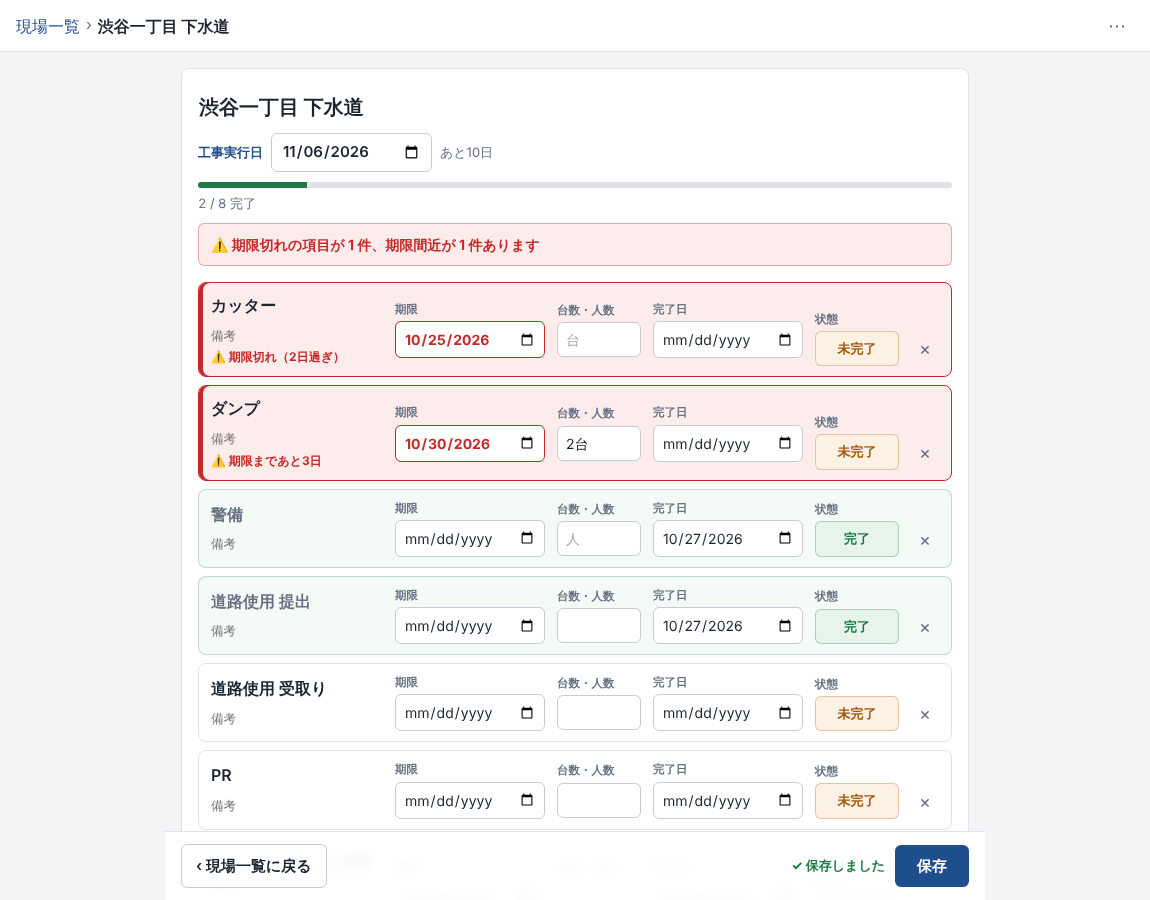
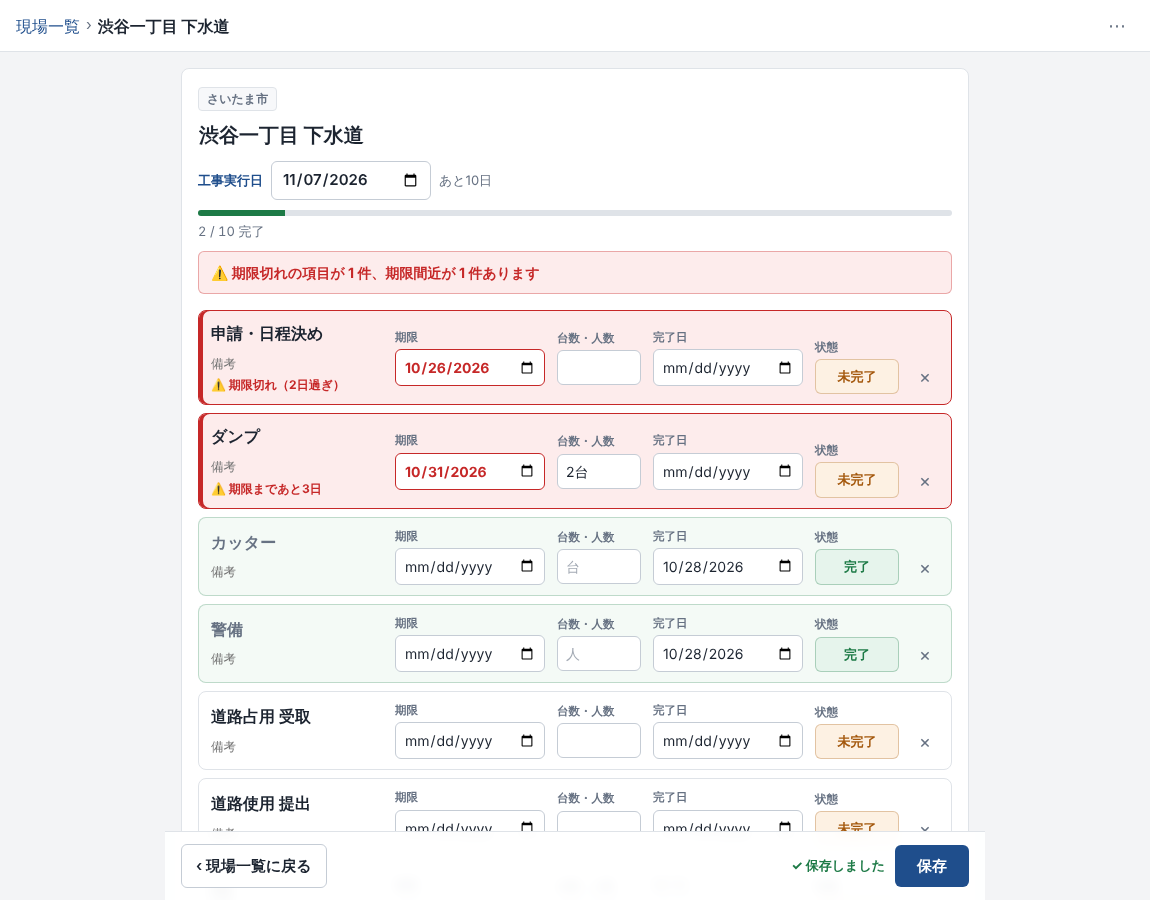
現場を作る時に地域ごとの項目セットを選べるように
- さいたま市・川口市・東京都・なし（自分で追加）の項目セットを追加
- 選んだ地域をフォルダと現場画面に表示し、地域名でも検索できるように
- 「道路占用 受取」がセットに含まれるため、既存現場から道路占用を消す処理を外す

Claude-Session: https://claude.ai/code/session_01ENEA1xgHqJX6YxXFpAdksQ

Changed region(s): [[0.1522, 0.0933, 0.8217, 0.9333]]

diff --git a/app.js b/app.js
@@ -1,17 +1,46 @@
 // 現場管理（仮版）: データはこの端末のブラウザ (localStorage) に保存
 const STORAGE_KEY = 'genba-kanri-v1';
 
-// 紙の枠と同じ初期項目
-const DEFAULT_TASKS = [
-  'カッター',
-  'ダンプ',
-  '警備',
-  '道路使用 提出',
-  '道路使用 受取り',
-  'PR',
-  '事前打合せ（施工日前日）',
-  '組合にメーター取りに行く',
-];
+// 地域ごとの項目セット（現場を作る時に選ぶ）
+const TEMPLATES = {
+  'さいたま市': [
+    '申請・日程決め',
+    'ダンプ',
+    'カッター',
+    '警備',
+    '道路占用 受取',
+    '道路使用 提出',
+    'PR',
+    '道路使用 受取',
+    '事前打合せ',
+    'メーター受取',
+  ],
+  '川口市': [
+    '事前打合せ',
+    '預かり',
+    '申請',
+    '道路使用 受取',
+    '道路使用 提出',
+    '道路使用 受取',
+    '日程決め',
+    'PR',
+    'ダンプ',
+    '警備',
+    'カッター',
+  ],
+  '東京都': [
+    '申請',
+    '道路占用 受取',
+    '日程決め',
+    'ダンプ',
+    '警備',
+    'カッター',
+    '道路使用 提出',
+    '道路使用 受取',
+    'PR',
+  ],
+  'なし（自分で追加）': [],
+};
 
 const $ = (id) => document.getElementById(id);
 const uid = () => Date.now().toString(36) + Math.random().toString(36).slice(2, 7);
@@ -22,7 +51,6 @@ const RENAMED_TASKS = {
   '申請・施工日日程決め（カッター）': ['カッター'],
   '申請・施工日日程決め（ダンプ）': ['ダンプ'],
   '申請・施工日日程決め（警備）': ['警備'],
-  '道路占用 受取り': [],
 };
 
 let state = load();
@@ -80,14 +108,15 @@ function ask(message, okLabel = 'OK', cancel = true) {
 }
 const notify = (message) => ask(message, 'OK', false);
 
-function newSite(name) {
+function newSite(name, area) {
   return {
     id: uid(),
     name,
+    area: area in TEMPLATES && TEMPLATES[area].length ? area : '',
     notes: '',
     createdAt: new Date().toISOString(),
     updatedAt: new Date().toISOString(),
-    tasks: DEFAULT_TASKS.map((title) => ({ id: uid(), title, date: '', qty: '', doneDate: '', note: '', done: false })),
+    tasks: (TEMPLATES[area] || []).map((title) => ({ id: uid(), title, date: '', qty: '', doneDate: '', note: '', done: false })),
   };
 }
 
@@ -164,7 +193,7 @@ function renderList() {
   list.innerHTML = '';
 
   const sites = state.sites
-    .filter((s) => s.name.toLowerCase().includes(q))
+    .filter((s) => (s.name + ' ' + (s.area || '')).toLowerCase().includes(q))
     .filter((s) => filter === 'all'
       || (filter === 'warn' ? siteAlerts(s).length > 0 : filter === 'done' ? isAllDone(s) : !isAllDone(s)))
     // 警告のある現場を上に、その中は更新が新しい順
@@ -184,6 +213,7 @@ function renderList() {
         ? `⚠ ${overdue ? '期限切れ' : '期限間近'} ${alerts.length}件`
         : done ? '✓ 完了' : '未完了'}</div>
       <div class="folder-body">
+        <div class="area"></div>
         <div class="name"></div>
         <div class="work"></div>
         <div class="sub"></div>
@@ -193,6 +223,8 @@ function renderList() {
         </div>
       </div>`;
     li.querySelector('.name').textContent = site.name;
+    li.querySelector('.area').textContent = site.area || '';
+    li.querySelector('.area').hidden = !site.area;
     li.querySelector('.work').textContent = site.workDate ? '工事 ' + workDateLabel(site) : '工事実行日 未定';
     li.querySelector('.work').classList.toggle('is-unset', !site.workDate);
     li.querySelector('.sub').textContent = !total ? '項目なし'
@@ -244,6 +276,8 @@ function showDetail() {
   $('pageTitle').hidden = false;
   $('pageTitle').textContent = site.name;
   $('siteNameInput').value = site.name;
+  $('siteArea').textContent = site.area || '';
+  $('siteArea').hidden = !site.area;
   $('siteNotes').value = site.notes || '';
   $('workDateInput').value = site.workDate || '';
   renderWorkDate(site);
@@ -357,11 +391,18 @@ document.querySelectorAll('.chip').forEach((chip) => {
   });
 });
 
+$('templatePicker').innerHTML = Object.keys(TEMPLATES).map((area, i) => `
+  <label class="template-option">
+    <input type="radio" name="template" value="${area}"${i === 0 ? ' checked' : ''}>
+    <span>${area}</span>
+  </label>`).join('');
+
 $('addSiteForm').addEventListener('submit', (e) => {
   e.preventDefault();
   const name = $('newSiteName').value.trim();
   if (!name) return;
-  const site = newSite(name);
+  const area = document.querySelector('input[name="template"]:checked')?.value;
+  const site = newSite(name, area);
   state.sites.push(site);
   save();
   $('newSiteName').value = '';

diff --git a/style.css b/style.css
@@ -93,7 +93,24 @@ main { max-width: 820px; margin: 0 auto; padding: 16px; }
 .chip { border: 1px solid var(--line-strong); background: var(--card); border-radius: 6px; padding: 5px 12px; font-size: 13px; }
 .chip.active { background: var(--accent); border-color: var(--accent); color: var(--accent-text); }
 
-.add-site { display: flex; gap: 8px; margin-bottom: 12px; }
+.add-site {
+  display: flex; flex-direction: column; gap: 10px; margin-bottom: 14px;
+  padding: 12px; background: var(--card); border: 1px solid var(--line); border-radius: 8px;
+}
+.add-site-row { display: flex; gap: 8px; }
+.template-picker { margin: 0; padding: 0; border: none; min-width: 0; }
+.template-picker legend { padding: 0; margin-bottom: 6px; font-size: 12.5px; font-weight: 600; color: var(--muted); }
+.template-options { display: flex; flex-wrap: wrap; gap: 6px; }
+.template-option { position: relative; }
+.template-option input { position: absolute; inset: 0; width: 100%; height: 100%; margin: 0; opacity: 0; pointer-events: none; }
+.template-option span {
+  display: inline-block; padding: 6px 12px; border: 1px solid var(--line-strong); border-radius: 6px;
+  background: var(--card); font-size: 13px; cursor: pointer;
+}
+.template-option input:checked + span { background: var(--accent); border-color: var(--accent); color: var(--accent-text); font-weight: 600; }
+.template-option input:focus-visible + span { outline: 2px solid var(--accent); outline-offset: 1px; }
+.folder .area { font-size: 11.5px; font-weight: 600; color: var(--muted); }
+.site-area { display: inline-block; margin-bottom: 4px; padding: 2px 8px; border-radius: 4px; background: var(--head); border: 1px solid var(--line); font-size: 12px; font-weight: 600; color: var(--muted); }
 .add-site button, .add-task {
   flex-shrink: 0; padding: 10px 16px; border: none; border-radius: 6px;
   background: var(--accent); color: var(--accent-text); font-weight: 600;

diff --git a/index.html b/index.html
@@ -12,7 +12,7 @@
   <meta name="mobile-web-app-capable" content="yes">
   <meta name="apple-mobile-web-app-title" content="現場管理">
   <meta name="apple-mobile-web-app-status-bar-style" content="default">
-  <link rel="stylesheet" href="style.css?v=12">
+  <link rel="stylesheet" href="style.css?v=13">
 </head>
 <body>
   <header class="app-header">
@@ -46,8 +46,14 @@
       <button class="chip chip-warn" data-filter="warn">⚠ 期限注意</button>
     </div>
     <form id="addSiteForm" class="add-site">
-      <input id="newSiteName" type="text" placeholder="新しい現場名を入力" required>
-      <button type="submit">＋ 追加</button>
+      <fieldset class="template-picker">
+        <legend>項目セット</legend>
+        <div id="templatePicker" class="template-options"></div>
+      </fieldset>
+      <div class="add-site-row">
+        <input id="newSiteName" type="text" placeholder="新しい現場名を入力" required>
+        <button type="submit">＋ 追加</button>
+      </div>
     </form>
     <ul id="siteList" class="folder-grid"></ul>
     <p id="emptyMsg" class="empty" hidden></p>
@@ -57,6 +63,7 @@
   <main id="detailView" hidden>
     <div class="sheet">
     <div class="site-meta">
+      <span id="siteArea" class="site-area" hidden></span>
       <input id="siteNameInput" class="site-name" type="text" aria-label="現場名">
       <div class="work-date">
         <label for="workDateInput">工事実行日</label>
@@ -113,6 +120,6 @@
     </tr>
   </template>
 
-  <script src="app.js?v=12"></script>
+  <script src="app.js?v=13"></script>
 </body>
 </html>

diff --git a/sw.js b/sw.js
@@ -1,11 +1,11 @@
 // オフラインでも開けるようにするサービスワーカー
 // 方針: ネットにつながる時は常に最新を取りに行き（更新がすぐ反映される）、つながらない時だけ保存済みを使う
-const CACHE = 'genba-kanri-v12';
+const CACHE = 'genba-kanri-v13';
 const APP_FILES = [
   './',
   'index.html',
-  'style.css?v=12',
-  'app.js?v=12',
+  'style.css?v=13',
+  'app.js?v=13',
   'manifest.webmanifest',
   'icons/icon-192.png',
   'icons/icon-512.png',

diff --git a/README.md b/README.md
@@ -16,7 +16,7 @@
 
 以降はこのブランチに push すると自動で公開ページが更新されます。
 
-- **現場を追加**: 一覧の上の欄に現場名を入力して「＋ 追加」
+- **現場を追加**: 項目セット（さいたま市・川口市・東京都・なし）を選び、現場名を入力して「＋ 追加」
 - **一覧**: 現場ごとにフォルダ（タブに完了/未完了/警告）で並ぶ。進み具合・完了/未完了・次にやる項目が見える
 - **検索**: 上の検索欄に現場名の一部を入力
 - **絞り込み**: 「未完了あり」「すべて完了」
@@ -28,16 +28,14 @@
 - **メモ**: 現場ごとの自由記入欄
 - **メニュー（⋯）**: データの書き出し／読み込み（JSON）、印刷
 
-### 初期項目
+### 項目セット
 
-1. カッター
-2. ダンプ
-3. 警備
-4. 道路使用 提出
-5. 道路使用 受取り
-6. PR
-7. 事前打合せ（施工日前日）
-8. 組合にメーター取りに行く
+現場を作る時に地域ごとのセットを選ぶと、その項目が入った状態で作られる（`app.js` の `TEMPLATES`）。
+
+- **さいたま市**: 申請・日程決め / ダンプ / カッター / 警備 / 道路占用 受取 / 道路使用 提出 / PR / 道路使用 受取 / 事前打合せ / メーター受取
+- **川口市**: 事前打合せ / 預かり / 申請 / 道路使用 受取 / 道路使用 提出 / 道路使用 受取 / 日程決め / PR / ダンプ / 警備 / カッター
+- **東京都**: 申請 / 道路占用 受取 / 日程決め / ダンプ / 警備 / カッター / 道路使用 提出 / 道路使用 受取 / PR
+- **なし**: 空のまま作り、自分で項目を追加
 
 ## ホーム画面に追加（PWA）
 
